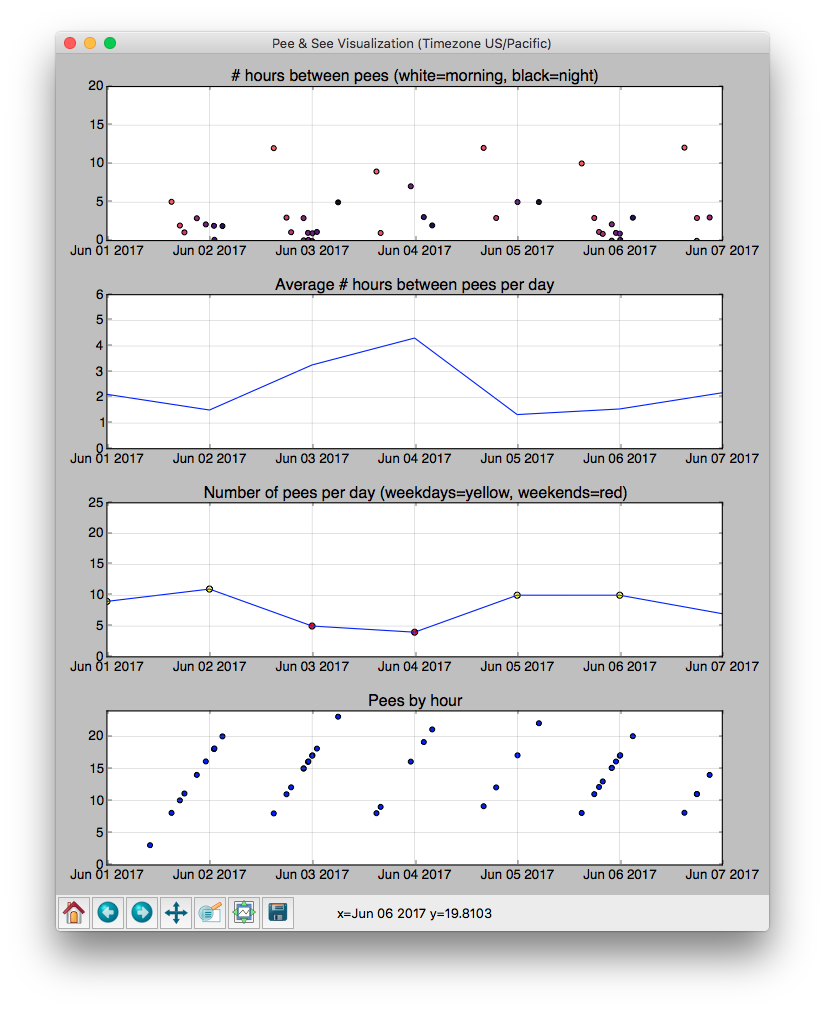
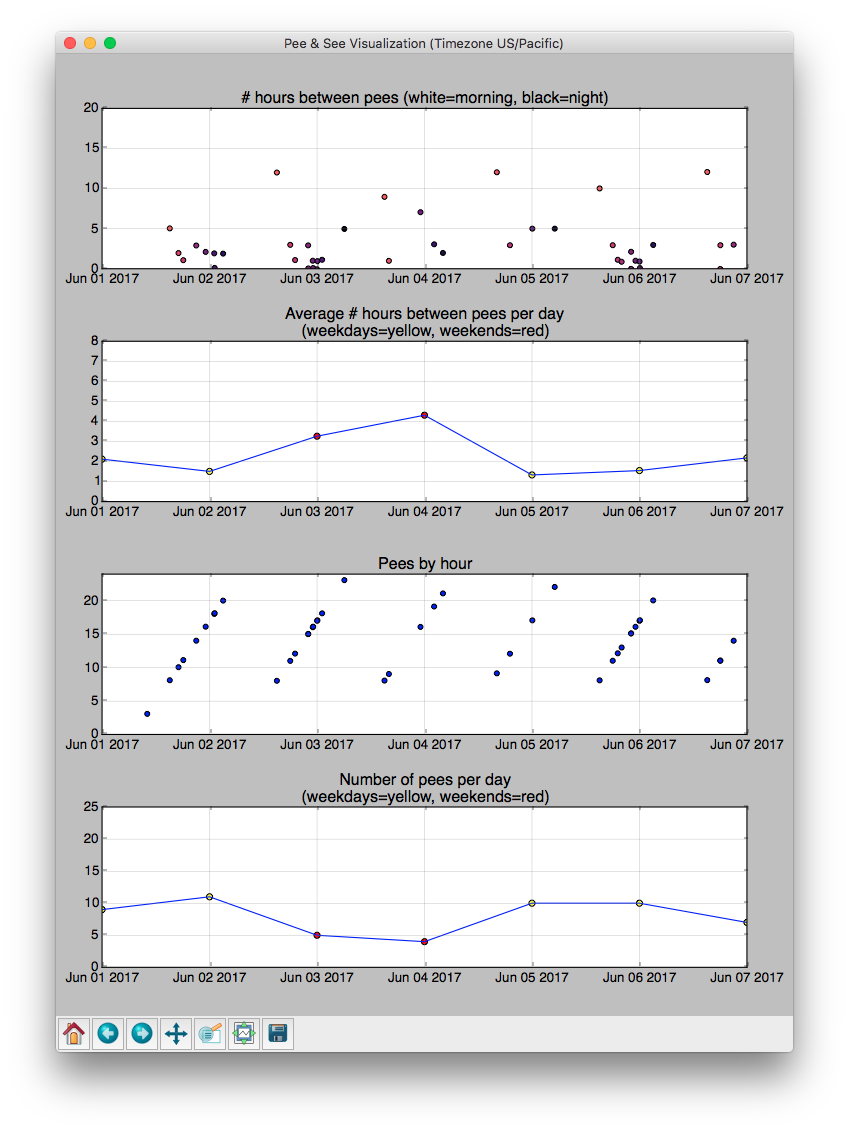
Visualize weekend dots on two plots; pass in fn

diff --git a/seepee.py b/seepee.py
@@ -3,11 +3,12 @@ from dateutil import parser
 import matplotlib.pyplot as plt
 import matplotlib.cm as cm
 import pytz
+import sys
 
-def readPees(tzString):
+def readPees(filename, tzString):
     pees = []
     tz = pytz.timezone(tzString)
-    with open('pees-ex.csv', 'rb') as f:
+    with open(filename, 'rb') as f:
         reader = csv.reader(f)
         reader.next() # skip first title row
 
@@ -38,6 +39,27 @@ def visPeeDiffsByDay(pees, ax):
 
     ax.set_title("# hours between pees (white=morning, black=night)")
     ax.scatter(datesAll, diffsAll, s=20, c=colorMaps)
+
+
+def _visWeekdayByData(dates, data, ax):
+    assert len(data) == len(dates)
+
+    weekendX = []
+    weekendY = []
+    weekdayX = []
+    weekdayY = []
+
+    for i in xrange(len(dates)):
+        if not isWeekday(dates[i]):
+            weekendX.append(dates[i])
+            weekendY.append(data[i])
+        else:
+            weekdayX.append(dates[i])
+            weekdayY.append(data[i])
+
+    ax.scatter(weekendX, weekendY, c='red', s=30)
+    ax.scatter(weekdayX, weekdayY, c='yellow', s=30)
+    ax.set_title(ax.get_title() + "\n(weekdays=yellow, weekends=red)")
 
 def visPeeDiffAverageByDay(pees, ax):
     lastDate = None
@@ -72,38 +94,25 @@ def visPeeDiffAverageByDay(pees, ax):
 
     ax.set_title("Average # hours between pees per day")
     ax.plot(dates, averages)
+    _visWeekdayByData(dates, averages, ax)
 
 def visPeeCountByDay(pees, ax):
     lastDate = None
     dates = []
     peeCount = []
 
-    weekendX = []
-    weekendY = []
-    weekdayX = []
-    weekdayY = []
-
     for p in pees:
         currDate = p.date()
         if currDate != lastDate:
-            if lastDate:
-                if not isWeekday(lastDate):
-                    weekendX.append(lastDate)
-                    weekendY.append(peeCount[-1])
-                else:
-                    weekdayX.append(lastDate)
-                    weekdayY.append(peeCount[-1])
-
             dates.append(currDate)
             peeCount.append(1)
             lastDate = currDate
         else:
             peeCount[-1] += 1
 
-    ax.set_title("Number of pees per day (weekdays=yellow, weekends=red)")
+    ax.set_title("Number of pees per day")
     ax.plot(dates, peeCount)
-    ax.scatter(weekendX, weekendY, c='red', s=30)
-    ax.scatter(weekdayX, weekdayY, c='yellow', s=30)
+    _visWeekdayByData(dates, peeCount, ax)
 
 def visPeesByHour(pees, ax):
     dates = []
@@ -115,8 +124,13 @@ def visPeesByHour(pees, ax):
     ax.set_title("Pees by hour")
     ax.scatter(dates, hours)
 
+try:
+    filename = sys.argv[1]
+except IndexError:
+    print "Usage: python seepee.py <filename-of-CSV>"
+    sys.exit(-1)
 tzString = "US/Pacific"
-pees = readPees(tzString)
+pees = readPees(filename, tzString)
 
 datemin = pees[0].date()
 datemax = pees[-1].date()
@@ -136,9 +150,9 @@ def _makeAxis(yMax):
 
 plt.figure(num="Pee & See Visualization (Timezone %s)" % tzString)
 visPeeDiffsByDay      (pees, _makeAxis(20))
-visPeeDiffAverageByDay(pees, _makeAxis(6))
-visPeeCountByDay      (pees, _makeAxis(25))
+visPeeDiffAverageByDay(pees, _makeAxis(8))
 visPeesByHour         (pees, _makeAxis(24))
+visPeeCountByDay      (pees, _makeAxis(25))
 
 # Seems to have no impact:
 # weekdayPees = returnOnlyWeekdays(pees)

diff --git a/README.md b/README.md
@@ -6,7 +6,11 @@ Generates four plots - pull requests or emails welcome if you have additional su
 
 Be sure to update your timezone before running this.
 
-## Example/screenshot
+## Example Usage
 
-Using an example week of data, you'll get the following plots:
+`python seepee.py pees-ex.csv`
+
+## Screenshot
+
+Using `pees-ex.csv`, you'll get the following plots:
 ![Four plots of pee logs](example.png)
